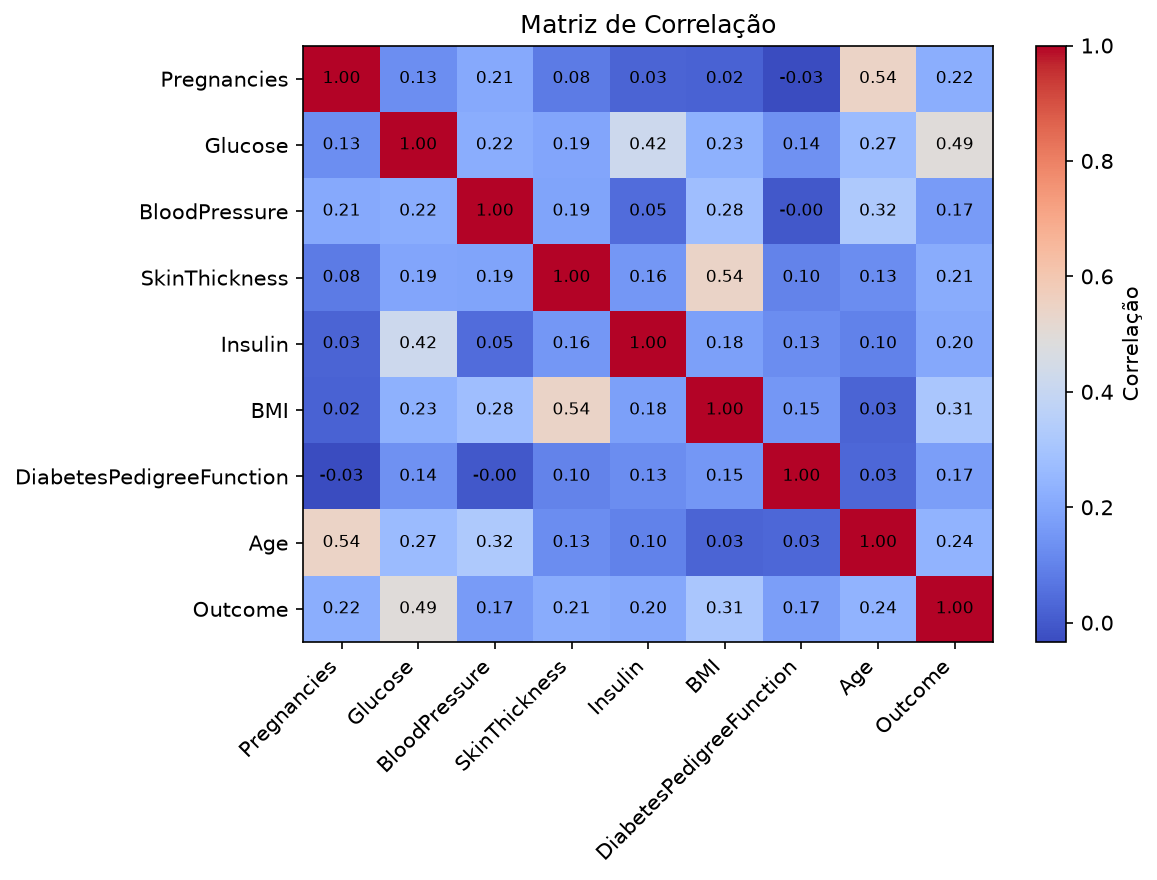
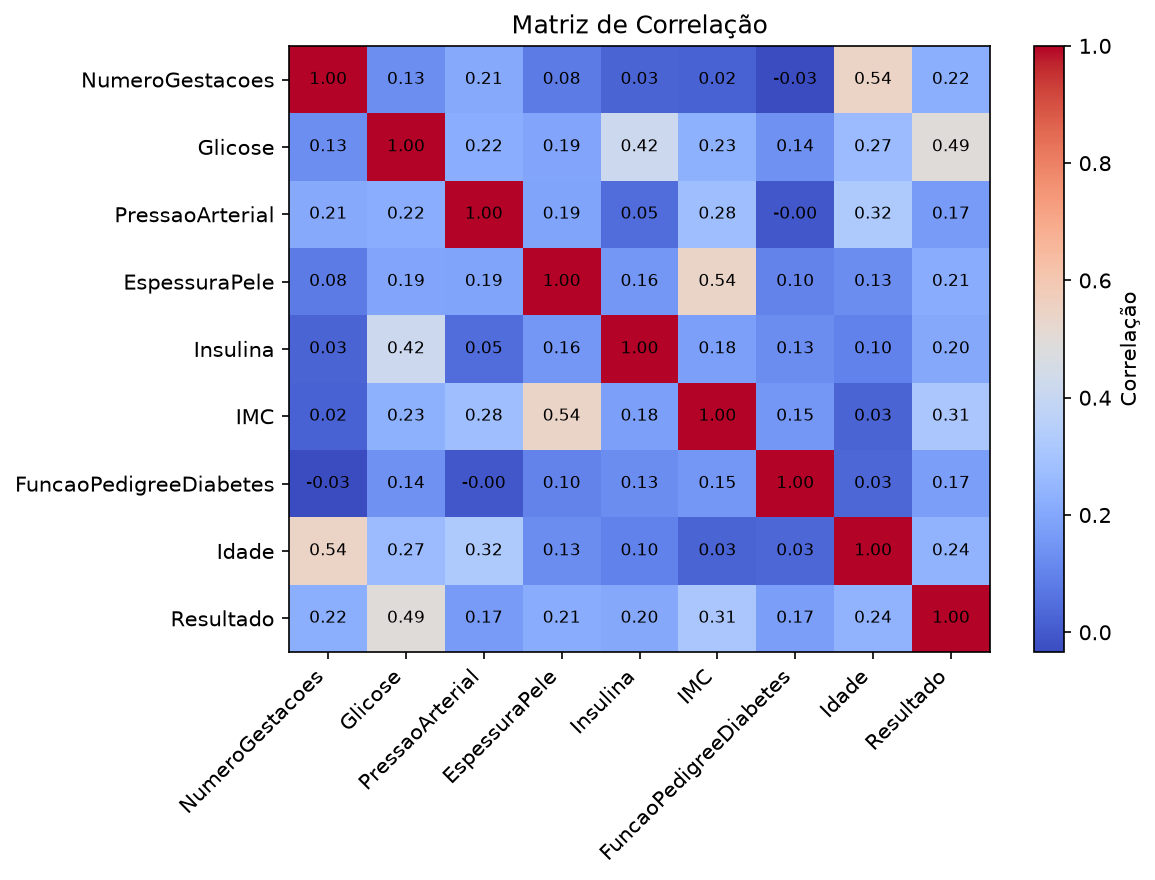
refactor: tradução dos nomes das colunas do dataset

diff --git a/src/preprocess_diabetes.py b/src/preprocess_diabetes.py
@@ -48,11 +48,11 @@ def main():
     df = df.drop_duplicates().copy()
 
     columns_with_zero_as_missing = [
-        "Glucose",
-        "BloodPressure",
-        "SkinThickness",
-        "Insulin",
-        "BMI",
+        "Glicose",
+        "PressaoArterial",
+        "EspessuraPele",
+        "Insulina",
+        "IMC",
     ]
     for col in columns_with_zero_as_missing:
         df[col] = df[col].replace(0, np.nan)
@@ -66,8 +66,8 @@ def main():
     print("\nValores ausentes após imputação por mediana:")
     print(df.isnull().sum())
 
-    X = df.drop(columns=["Outcome"])
-    y = df["Outcome"]
+    X = df.drop(columns=["Resultado"])
+    y = df["Resultado"]
 
     categorical_cols = X.select_dtypes(include=["object", "category"]).columns.tolist()
     if categorical_cols:
@@ -110,7 +110,7 @@ def main():
 
     descriptive_summary = {
         "summary_statistics": df.describe().round(2).to_dict(),
-        "mean_by_outcome": df.groupby("Outcome").mean().round(2).to_dict(),
+        "mean_by_outcome": df.groupby("Resultado").mean().round(2).to_dict(),
     }
 
     with open(PREPROCESSED_DIR / "descriptive_summary.json", "w", encoding="utf-8") as f:

diff --git a/app.py b/app.py
@@ -73,7 +73,7 @@ blood_pressure = st.number_input("Pressão arterial", min_value=0, value=72)
 skin_thickness = st.number_input("Espessura da pele", min_value=0, value=29)
 insulin = st.number_input("Insulina", min_value=0, value=140)
 bmi = st.number_input("IMC", min_value=0.0, value=32.0, step=0.1)
-pedigree = st.number_input("Função de pedigree", min_value=0.0, value=0.47, step=0.01)
+pedigree = st.number_input("Função de pedigree da diabetes", min_value=0.0, value=0.47, step=0.01)
 age = st.number_input("Idade", min_value=0, value=33)
 
 if st.button("Fazer previsão"):

diff --git a/documentos/apresentação.md b/documentos/apresentação.md
@@ -14,17 +14,17 @@ O foco principal foi selecionar o modelo mais adequado para este cenário, consi
 
 O conjunto de dados utilizado é o clássico dataset de diabetes, contendo 768 registros e 9 colunas:
 
-- Pregnancies
-- Glucose
-- BloodPressure
-- SkinThickness
-- Insulin
-- BMI
-- DiabetesPedigreeFunction
-- Age
-- Outcome
+- Número de gestações
+- Glicose
+- Pressão arterial
+- Espessura da pele
+- Insulina
+- IMC
+- Função de pedigree da diabetes
+- Idade
+- Resultado
 
-A variável alvo é Outcome, que indica:
+A variável alvo é Resultado, que indica:
 
 - 0: sem diabetes
 - 1: com diabetes
@@ -111,7 +111,7 @@ Limitações:
 
 ## 5. Estrutura das árvores de decisão
 
-As árvores foram treinadas após o pré-processamento, com as variáveis já padronizadas. Por isso, as divisões aparecem em termos de features transformadas, como f1, f5, f7, f4, f2 e f6, em vez dos nomes originais das colunas.
+As árvores foram treinadas após o pré-processamento, com as variáveis já padronizadas. Para facilitar a interpretação, a estrutura abaixo é apresentada em termos dos nomes das colunas em português, como Glicose, IMC, Idade, Pressão arterial e demais características clínicas.
 
 A melhor forma de visualizar a lógica dessas árvores é pensar em cada nó como uma pergunta. A partir da resposta, o modelo segue para outro ramo e, no final, decide se o paciente é classificado como sem diabetes ou com diabetes.
 
@@ -121,10 +121,12 @@ Essa é a árvore mais simples. Ela faz poucas perguntas antes de classificar o 
 
 Estrutura em forma de perguntas:
 
-1. A característica f1 está abaixo de um certo limite?
-2. Se sim, a característica f5 ajuda a decidir entre os dois grupos.
-3. Em seguida, f1 e f7 são usados para reforçar a decisão.
-4. Se não, a árvore segue por outro caminho e usa f5 e f4 para concluir a classificação.
+1. A característica Glicose está abaixo de um certo limite?
+2. Se sim, o IMC ajuda a decidir entre os dois grupos.
+3. Em seguida, Glicose e Idade são usados para reforçar a decisão.
+4. Se não, a árvore segue por outro caminho e usa IMC e Insulina para concluir a classificação.
+
+![Estrutura da árvore de decisão com profundidade 3](arvore_depth_3.png)
 
 Essa estrutura é mais direta, mas também menos detalhada. Por isso, ela consegue captar menos nuances do problema.
 
@@ -134,10 +136,12 @@ Essa foi a árvore com melhor equilíbrio entre simplicidade e capacidade de sep
 
 Estrutura em forma de perguntas:
 
-1. A característica f1 é o ponto inicial de decisão mais importante.
-2. Em seguida, a árvore pergunta se f5 está em um intervalo específico.
-3. A partir daí, novas perguntas são feitas com f1, f2, f4, f5 e f7.
+1. A característica Glicose é o ponto inicial de decisão mais importante.
+2. Em seguida, a árvore pergunta se o IMC está em um intervalo específico.
+3. A partir daí, novas perguntas são feitas com Glicose, Pressão arterial, Insulina, IMC e Idade.
 4. O modelo vai refinando a decisão em vários níveis, mas sem se tornar excessivamente complexo.
+
+![Estrutura da árvore de decisão com profundidade 5](arvore_depth_5.png)
 
 Essa árvore é mais rica do que a de profundidade 3, pois faz mais perguntas antes de decidir. Isso permite capturar melhor os padrões do dataset e, por isso, apresentou melhor desempenho geral.
 
@@ -147,10 +151,12 @@ Essa é a árvore mais detalhada e mais profunda. Ela faz mais perguntas e separ
 
 Estrutura em forma de perguntas:
 
-1. A árvore começa, como nas outras, avaliando f1.
-2. Depois, usa f5 e f7 para dividir os pacientes em subgrupos.
-3. Em níveis seguintes, passa a avaliar f0, f2, f4, f6 e outras características transformadas.
+1. A árvore começa, como nas outras, avaliando Glicose.
+2. Depois, usa IMC e Idade para dividir os pacientes em subgrupos.
+3. Em níveis seguintes, passa a avaliar Número de gestações, Pressão arterial, Insulina, IMC e outras características clínicas.
 4. O objetivo é chegar a decisões cada vez mais específicas.
+
+![Estrutura da árvore de decisão com profundidade 7](arvore_depth_7.png)
 
 Essa árvore é mais complexa e pode capturar padrões muito detalhados, mas também aumenta o risco de overfitting. Por isso, embora tenha boa precisão, a sua sensibilidade para detectar casos positivos foi menor do que na árvore de profundidade 5.
 
